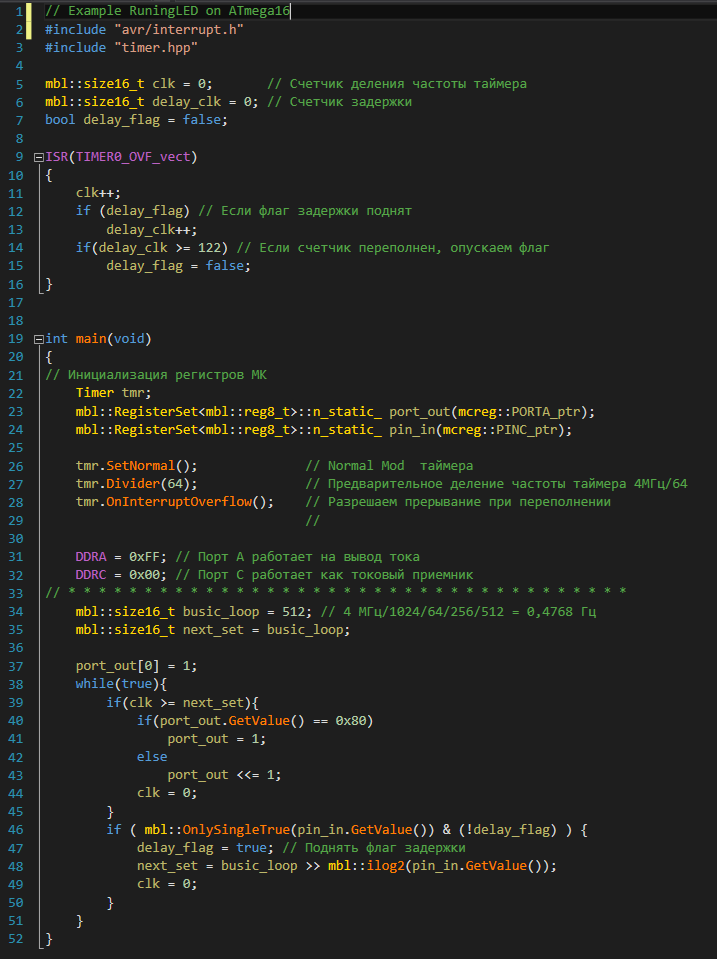
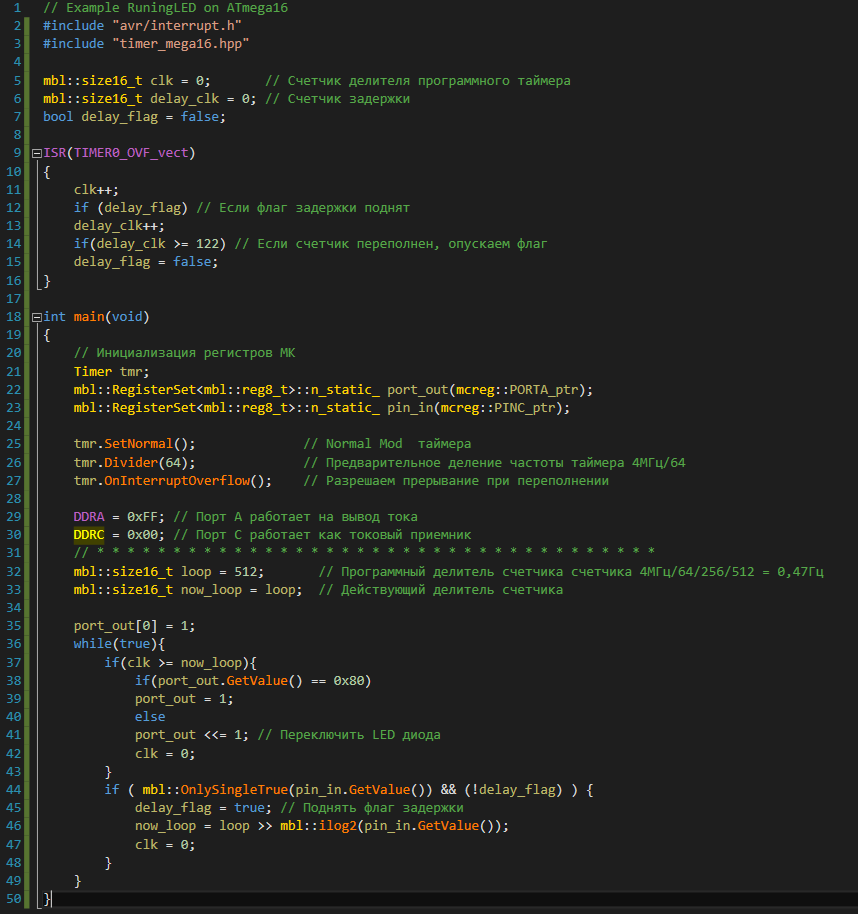
fix

Changed region(s): [[0.0, 0.0, 0.9512, 1.0], [0.1227, 0.8578, 0.7978, 0.9497], [0.4603, 0.7352, 0.5216, 0.7659]]

diff --git a/example/Example_ATtiny_2313/timer_tiny_2313.hpp b/example/Example_ATtiny_2313/timer_tiny_2313.hpp
@@ -2,8 +2,9 @@
 #define TIMER_H_
 // Simple timer TC0 for ATtiny2313
 
-#define  AVR_ATTINY
+#define  ATTINY_2313
 #include "metabit/metabit.hpp"
+#include "avrdef_ptr/avrdef_ptr.hpp"
 
 class Timer :public mbl::RegisterSet<mbl::reg8_t>::n_static_
 {
@@ -16,13 +17,13 @@ class Timer :public mbl::RegisterSet<mbl::reg8_t>::n_static_
 	
 	typedef mbl::RegisterSet<mbl::reg8_t>::n_static_ Parent;
 	public:
-	Timer():Parent(mcreg::TCNT0_c),
-	_ocr_a(mcreg::OCR0A_c),
-	_ocr_b(mcreg::OCR0B_c),
-	_tccr_a(mcreg::TCCR0A_c),
-	_tccr_b(mcreg::TCCR0B_c),
-	_timsk(mcreg::TIMSK_c),
-	_tifr(mcreg::TIFR_c)  {
+	Timer():Parent(mcreg::TCNT0_ptr),
+	_ocr_a(mcreg::OCR0A_ptr),
+	_ocr_b(mcreg::OCR0B_ptr),
+	_tccr_a(mcreg::TCCR0A_ptr),
+	_tccr_b(mcreg::TCCR0B_ptr),
+	_timsk(mcreg::TIMSK_ptr),
+	_tifr(mcreg::TIFR_ptr)  {
 		*Parent::_register  = 0;
 		*_ocr_a   = 0;
 		*_ocr_b   = 0;

diff --git a/example/Example_ATmega16/timer_mega16.hpp b/example/Example_ATmega16/timer_mega16.hpp
@@ -1,7 +1,9 @@
 #ifndef TIMER_H_
 #define TIMER_H_
 
+#define  ATMEGA_16
 #include "metabit/metabit.hpp"
+#include "avrdef_ptr/avrdef_ptr.hpp"
 
 class Timer :public mbl::RegisterSet<mbl::reg8_t>::n_static_
 {
@@ -12,11 +14,11 @@ class Timer :public mbl::RegisterSet<mbl::reg8_t>::n_static_
 	
 	typedef mbl::RegisterSet<mbl::reg8_t>::n_static_ Parent;
 	public:
-	Timer():Parent(mcreg::tcnt_0_c),
-	_ocr(mcreg::ocr_0_c),
-	_tccr(mcreg::tccr_0_c),
-	_timsk(mcreg::timsk_c),
-	_tifr(mcreg::tifr_c)  {
+	Timer():Parent(mcreg::TCNT0_ptr),
+	_ocr(mcreg::OCR0_ptr),
+	_tccr(mcreg::TCCR0_ptr),
+	_timsk(mcreg::TIMSK_ptr),
+	_tifr(mcreg::TIFR_ptr)  {
 		*Parent::_register = 0;
 		*_ocr   = 0;
 		*_tccr  = 0;
